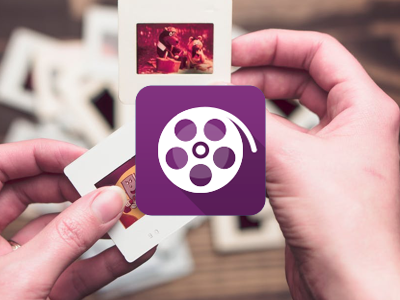
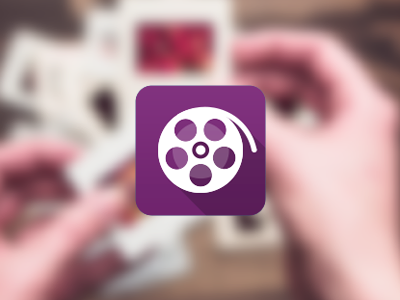
add kika go

diff --git a/index.html b/index.html
@@ -8,7 +8,8 @@
     <meta name="description" content="">
     <meta name="author" content="">
 
-    <title>Ru</title>
+    <title>Wei-Ru Lay</title>
+    <link rel="Shortcut Icon" type="image/x-icon" href="img/title2.ico"/>
 
     <!-- Bootstrap core CSS -->
     <link href="vendor/bootstrap/css/bootstrap.min.css" rel="stylesheet">
@@ -32,7 +33,7 @@
     <nav class="navbar navbar-expand-lg navbar-dark fixed-top" id="mainNav">
       <div class="container">
         <!-- Linda hide the following original code-->
-        <a class="navbar-brand js-scroll-trigger" href="#page-top">Home</a>
+        <a class="navbar-brand js-scroll-trigger" href="#page-top">Wei-Ru Lay</a>
         <button class="navbar-toggler navbar-toggler-right" type="button" data-toggle="collapse" data-target="#navbarResponsive" aria-controls="navbarResponsive" aria-expanded="false" aria-label="Toggle navigation">
           Menu
           <i class="fa fa-bars"></i>
@@ -70,7 +71,7 @@
         <div class="intro-text">
           <!-- Linda hide the following original code-->
           <div class="intro-lead-in">Designing digital product and user experience!</div>
-          <div class="intro-heading text-uppercase">WEI-RU LAY</div>
+          <div class="intro-heading text-uppercase">Wei-Ru Lay</div>
           <!--<a class="btn btn-primary btn-xl text-uppercase js-scroll-trigger" href="#services">Tell Me More</a>-->
         </div>
       </div>
@@ -87,7 +88,10 @@
             <h3 class="section-subheading text-muted">I have six years of experience as a UX designer focusing on mobile applications, from initial ideation to final award-winning product. I have worked in a variety of settings, from large tech companies with over 50 million users to brand-new startups.</h3>
           </div>
         </div>
+
         <div class="row">
+
+
           <div class="col-md-6 col-sm-6 portfolio-item">
             <a class="portfolio-link" data-toggle="modal" href="#portfolioModal1">
               <div class="portfolio-hover">
@@ -117,6 +121,24 @@
               <p class="text-muted">Chatbot Design Case Study</p>
             </div>
           </div>
+
+
+          <div class="col-md-6 col-sm-6 portfolio-item">
+            <a class="portfolio-link" data-toggle="modal" href="#portfolioModal4">
+              <div class="portfolio-hover">
+                <div class="portfolio-hover-content">
+                  <i class="fa fa-lightbulb-o fa-3x"></i>
+                </div>
+              </div>
+              <img class="img-fluid" src="img/portfolio/04-thumbnail.png" alt="">
+            </a>
+            <div class="portfolio-caption">
+              <h4>KikaGo</h4>
+              <p class="text-muted">Powering Hands-Free Communications</p>
+            </div>
+          </div>
+
+
           <div class="col-md-6 col-sm-6 portfolio-item">
             <a class="portfolio-link" data-toggle="modal" href="#portfolioModal3">
               <div class="portfolio-hover">
@@ -131,21 +153,9 @@
               <p class="text-muted">ZenFone Multimedia Apps</p>
             </div>
           </div>
+          
+
           <!--
-          <div class="col-md-6 col-sm-6 portfolio-item">
-            <a class="portfolio-link" data-toggle="modal" href="#portfolioModal4">
-              <div class="portfolio-hover">
-                <div class="portfolio-hover-content">
-                  <i class="fa fa-lightbulb-o fa-3x"></i>
-                </div>
-              </div>
-              <img class="img-fluid" src="img/portfolio/04-thumbnail.png" alt="">
-            </a>
-            <div class="portfolio-caption">
-              <h4>ASUS Music</h4>
-              <p class="text-muted">Zenphone music player</p>
-            </div>
-          </div>
           <div class="col-md-6 col-sm-6 portfolio-item">
             <a class="portfolio-link" data-toggle="modal" href="#portfolioModal5">
               <div class="portfolio-hover">
@@ -267,41 +277,41 @@
         <div class="row">
           <div class="col-lg-12 text-center">
             <h2 class="section-heading text-uppercase">Process</h2>
-            <h3 class="section-subheading text-muted">What I have been working on to deliver a product</h3>
+            <h3 class="section-subheading text-muted">Work processes to deliver a product</h3>
           </div>
         </div>
         <div class="row text-center">
           <div class="col-md-3">
             <span class="fa-stack fa-4x">
               <i class="fa fa-circle fa-stack-2x text-primary"></i>
-              <i class="fa fa-shopping-cart fa-stack-1x fa-inverse"></i>
+              <i class="fa fa-search fa-stack-1x fa-inverse"></i>
             </span>
             <h4 class="service-heading">Research</h4>
-            <p class="text-muted">Brand strategy<br>User stories<br>Competetive products<br>Interview & Survey</p>
+            <p class="text-muted">Brand strategy<br>User stories<br>Competitor’s products<br>Heuristic interviews</p>
+          </div>
+          <div class="col-md-3">
+            <span class="fa-stack fa-4x">
+              <i class="fa fa-circle fa-stack-2x text-primary"></i>
+              <i class="fa fa-pencil fa-stack-1x fa-inverse"></i>
+            </span>
+            <h4 class="service-heading">Design</h4>
+            <p class="text-muted">Defining specifications<br>Sketching<br>Wireframing<br>Prototyping</p>
           </div>
           <div class="col-md-3">
             <span class="fa-stack fa-4x">
               <i class="fa fa-circle fa-stack-2x text-primary"></i>
               <i class="fa fa-laptop fa-stack-1x fa-inverse"></i>
             </span>
-            <h4 class="service-heading">Design</h4>
-            <p class="text-muted">Define specifications<br>Sketching<br>Wireframing<br>Prototyping</p>
+            <h4 class="service-heading">Production</h4>
+              <p class="text-muted">Collaboration with developer<br>User testing<br>Quality assurance<br>Refinement</p>
           </div>
           <div class="col-md-3">
             <span class="fa-stack fa-4x">
               <i class="fa fa-circle fa-stack-2x text-primary"></i>
-              <i class="fa fa-lock fa-stack-1x fa-inverse"></i>
-            </span>
-            <h4 class="service-heading">Produce</h4>
-            <p class="text-muted">Co-work with developer<br>User testing<br>Quality assurance<br>Design refining</p>
-          </div>
-          <div class="col-md-3">
-            <span class="fa-stack fa-4x">
-              <i class="fa fa-circle fa-stack-2x text-primary"></i>
-              <i class="fa fa-shopping-cart fa-stack-1x fa-inverse"></i>
+              <i class="fa fa-bar-chart fa-stack-1x fa-inverse"></i>
             </span>
             <h4 class="service-heading">Analysis</h4>
-            <p class="text-muted">A/B Testing<br>User behavior<br>Traffic Analysis<br>Feedback collecting</p>
+            <p class="text-muted">A/B testing<br>User behavior<br>Traffic analysis<br>Feedback consideration</p>
           </div>
           <!--
           <div class="col-md-3">
@@ -381,7 +391,7 @@
                 </li>
                 -->
                 <li class="list-inline-item">
-                  <a href="" target="blank">
+                  <a href="https://goo.gl/4SvKAW" target="blank">
                     <i class="fa fa-address-card"></i>
                   </a>
                 </li>
@@ -511,7 +521,7 @@
       <div class="container">
         <div class="row">
           <div class="col-md-12">
-            <span class="copyright">Copyright &copy; weirulay.com 2017</span>
+            <span class="copyright">Copyright &copy; Wei-Ru Lay 2018</span>
           </div>
           <!-- Linda hide this part
           <div class="col-md-4">
@@ -599,7 +609,9 @@
                   <img class="img-fluid d-block mx-auto" src="img/portfolio/01_stage4.png" alt="">
                   <!-- <p><a class="portfolio-link" data-toggle="modal" data-dismiss="modal" href="#portfolioModal2">Next Project</a><p>
                   -->
+                  <!--
                   <button class="btn" type="button" onclick="$('#portfolioModal1').one('hidden.bs.modal', function() { $('#portfolioModal2').modal('show'); }).modal('toggle');">Next Project</button>
+                  -->
 
                   <button class="btn btn-primary" data-dismiss="modal" type="button">
                     <i class="fa fa-times"></i>
@@ -666,6 +678,8 @@
                   <div class="embed-responsive embed-responsive-16by9">
                     <iframe src="https://www.youtube.com/embed/rI0r0cLVJpg" frameborder="0" gesture="media" allow="encrypted-media" allowfullscreen></iframe>
                   </div>
+                  <br>
+                  <br>
                   <button class="btn btn-primary" data-dismiss="modal" type="button">
                     <i class="fa fa-times"></i>
                     Close Project</button>
@@ -692,7 +706,7 @@
                 <div class="modal-body">
                   <!-- Project Details Go Here -->
                   <h2>ASUS ZenUI - ZenFone Apps</h2>
-                  <p class="item-intro text-muted">ZenUI is the system user interface designed specifically for ASUS ZenFone. Including various creativity and multimedia apps for ZenFone users to experience consistent and seamless services.</p>
+                  <p class="item-intro text-muted">ZenUI is the user interface designed specifically for ASUS ZenFone. It includes various multimedia apps for ZenFone users to experience a wide range of consistent, seamless services.</p>
                   <ul class="list-inline">
                   <li>Role: Planning | Researching | Wireframing | Prototyping | Testing</li>
                   <li>Type: ZenFone system applications | Android applications</li>
@@ -703,29 +717,29 @@
 
                   <img class="img-fluid d-block mx-auto" src="img/portfolio/03-icons.png" alt="">
                   <h3>Background</h3>
-                  <p>ZenUI is the system user interface designed for ZenFone. Before ZenFone1 was borned, ASUS design center decided to create their own user interface since there was no standard design guideline for android phone back in 2013. I was involved in the this plan and focusing on planning and designing the essential multimedia applicZenFoneations for ZenFone.</p>
+                  <p>ZenUI is the user interface designed for ZenFone. Before the 2014 release of ZenFone1, ASUS design center needed to create their own user interface. At the time, the design guidelines for Android phones were incomplete. I was involved in creating the ZenUI user interface, and focused on planning and designing the essential multimedia application for ZenFone.</p>
 
                   <h3>Challenges</h3>
-                  <p>Timing: Before ZenFone launched, there was only two to three months for building new application from zero to release.
+                  <p>Timing: Our team was under a tight deadline—two to three months—for building the new application from scratch.
                   <br>
                   <br>
-                  Integration: We hoped to support most cloud storage services, home storage services (such as NAS) to make people easily access their multimedia files. Supporting arious streaming technology was also important for multimedia apps. Integrating these features in the user flow and make the users feel non-hessle was the main design goal.
+                  Integration: We wanted to support most cloud-storage services and, home-storage services (such as NAS) so that users could easily access their multimedia files. We also want to support various streaming technologies. Our main design goal was to integrate these features into the user flow and make users feel comfortable.
                   <br>
                   <br>
-                  Communication: Not like designing an independent application, all the interactions of ZenFone apps needs to be consistent. Different app designers will need to cooperate tightly and efficiently to make this happened.</p>
+                  Communication: Unlike third-party applications, all ZenFone app interactions need to be consistent and unified. Designers on ZenFone apps needed to cooperate closely and effectively to achieve our goal.</p>
 
                   <h3>ASUS Music</h3>
-                  <p>ASUS Music allows users to access to music files on cloud resource easily, also provides lyrics and streaming features.</p>
+                  <p>We built the ASUS Music application, which allowed users to easily access music files on cloud resource, also providing song lyrics and streaming features.</p>
                   <p><a href="https://goo.gl/UUvMwL">XXXX Downloads with 4.6 Stars</a></p>
                   <img class="img-fluid d-block mx-auto" src="img/portfolio/03-2-select.png" alt="">
 
                   <h3>ASUS MicroFilm</h3>
-                  <p>To better promote new ZenFone camera, MicroFilm was build for creating photo videos. By selecting different themes and customized background music, user can create a stylish slideshow movie.</p>
+                  <p>To better promote the new ZenFone camera, we were also asked to build the MicroFilm application for creating photo videos. By selecting different themes and customized background music, MicroFilm users could create stylish and immersive slideshow movies.</p>
                   <p><a href="https://goo.gl/UUvMwL">XXXX Downloads with 4.6 Stars</a></p>
                   <img class="img-fluid d-block mx-auto" src="img/portfolio/03-microfilm.png" alt="">
 
                   <h3>ASUS Gallery</h3>
-                  <p>Gallery provides photo viewing and advanced editing to make photo sharing more fun!</p>
+                  <p>We also needed to redesign and update the Gallery application to be consistent with the other new or redesigned ZenFone apps. Our redesigned Gallery provided photo photo viewing and advanced editing to make photo sharing more fun and engaging!</p>
                   <p><a href="https://goo.gl/UUvMwL">XXXX Downloads with 4.6 Stars</a></p>
                   <img class="img-fluid d-block mx-auto" src="img/portfolio/03-gallery.png" alt="">
 
@@ -743,7 +757,7 @@
     </div>
 
     <!-- Modal 4 -->
-    <!--
+    
     <div class="portfolio-modal modal fade" id="portfolioModal4" tabindex="-1" role="dialog" aria-hidden="true">
       <div class="modal-dialog">
         <div class="modal-content">
@@ -756,17 +770,33 @@
             <div class="row">
               <div class="col-lg-10 mx-auto">
                 <div class="modal-body">
-                -->
+                
                   <!-- Project Details Go Here -->
-                  <!--
-                  <h2 class="text-uppercase">ASUS Music</h2>
-                  <p class="item-intro text-muted">A music player that can easily access music from your phone, cloud storage and home server. Spontaneously creating playlist and play queue from the content.  </p>
+                  
+                  <h2>KikaGo</h2>
+                  <p class="item-intro text-muted">In-car voice control solution creates a safer, more convenient and effortless way to communicate on the road.</p>
                   <ul class="list-inline">
-                  <li>Role: Planning | Researching | Wireframing | Prototyping | Testing</li>
-                  <li>Type：Android Application</li>
-                  <li><a href="https://goo.gl/UUvMwL">Try it on Google Play Store
-                  </a></li>
+                  <li>Role: UX designer </li>
+                  <li>Type: Voice User Interface for Automobile</li>
+                  <li>Award: CES 2018 Innovation Award Winner of In-Vehicle Audio/Video, Tech for a Better World, Software and Mobile Apps, and Smart Home</li>
+                  <li><a href="http://kika.ai/">KikaGo Official Home Page </a></li>
+                  <li><a href="http://youtu.be/T7f3z5SF6eE">KikaGo 2018 CES Interview</a></li>
                   </ul>
+                  <div class="embed-responsive embed-responsive-16by9">
+                  <iframe src="https://player.vimeo.com/video/249897026" width="640" height="360" frameborder="0" webkitallowfullscreen mozallowfullscreen allowfullscreen></iframe>
+                  </div>
+
+                  <br>
+                  <br>
+                  <h3>Background</h3>
+                  <p>In the loud environments, such as inside a moving vehicle, a regular phone's microphone is less effective for voice control. Kika developed a noise-cancellation microphone built into a USB-charging cable to solve this problem. With Kika's cutting-edge AI engine, the KikaGo application created a truly hands-free means for communications inside a car environment that is also elegant and simple.</p>
+
+                  <h3>Challenges</h3>
+                  <p>At the time of KikaGo’s development, there were no hands-free, in-car communications on the market. Unlike existing voice-assisted agents like Siri, KikaGo was designed specifically for voice interaction and hands-free communication so that users would be able to interact without seeing or touching the screen. Because of this, the design flow would need to be more abstract and difficult than the conventional user interface, which includes a visual component, and designers would need to spend more time testing the voice interaction, as opposed to the visual interaction design.</p>
+
+                  <img class="img-fluid d-block mx-400" src="img/portfolio/kika_app feature.png" alt="">
+
+
                   <button class="btn btn-primary" data-dismiss="modal" type="button">
                     <i class="fa fa-times"></i>
                     Close Project</button>
@@ -776,7 +806,7 @@
           </div>
         </div>
       </div>
-    </div>-->
+    </div>
 
     <!-- Modal 5 -->
     <!--
@@ -830,22 +860,20 @@
                 <div class="modal-body">
                   <!-- Project Details Go Here -->
                   <h2>Harman Kardon Remote</h2>
-                  <p class="item-intro text-muted">Harman Kardon Remote is a mobile application for controlling Harman Kardon audio products. Main features including "Device Control" , "Music Streaming" and "Music Player".</p>
+                  <p class="item-intro text-muted">Harman Kardon Remote is a mobile application for controlling Harman Kardon audio products. The main features included device control, music streaming, and music player.</p>
                   <ul class="list-inline">
                   <li>Role: UX/ UI Design</li>
                   <li>Type：iOS/Android Application</li>
-                  <li><a href="https://goo.gl/UUvMwL">Try it on Google Play Store
-                  </a></li>
                   </ul>
 
                   <img class="img-fluid d-block mx-auto" src="img/portfolio/06-intro.png" alt="">
 
                   <h3>Background</h3>
-                  <p>Harman Kardon is a home audio system manufacturer. Back in 2012, smartphone had become more popular on the market, supporting remote control and streaming services from mobile phone was a must. Harman Kardon UI/UX design team started to create this application to giving users a more smart way to interact with audio products.</p>
+                  <p>Harman Kardon is a home audio system manufacturer. With the rise of smartphones, mobile-phone support for remote control and streaming services had become a must. In 2012, the Harman Kardon UI/UX design team began developing this application to give users a more simpler, more intuitive, and technologically integrated smarter way to interact with audio products.</p>
                   
                   <h3>Challenges</h3>
-                  <p>High complexity: Designers needed to dive deeply for the technology of all audio products, including researching and defining interactions for more than 10 Harman Kardon products. <br><br>
-                  Integration: Other than remote control, also designed a full function music player integrating into the application. How to integrate all different setup process and make the navigation easy to understand was a challenge. </p>
+                  <p>Because of complex and meticulous nature of the project, detailed knowledge and execution was required. Designers researched and defined interactions for over ten Harmon Kardon products, including the BDS home-audio system and TK, in order to replicate and integrate these functions for mobile-phone remote control.<br><br>
+                  In addition to the remote control, designers also develop a fully functioning music player integrating into the app. Another challenge was how we could implement a wide variety of setup processes while simultaneously improving on making the navigation, making the end result more intuitive, elegant, and easy to understand.</p>
                   
                   <h3>User Flow </h3>
                   <img class="img-fluid d-block mx-auto" src="img/portfolio/06-flow.png" alt="">

diff --git a/css/agency.css b/css/agency.css
@@ -166,7 +166,7 @@ body {
 header.masthead {
   text-align: center;
   color: #FFFFFF;
-  background-image: url("../img/header-bg2.jpg");
+  background-image: url("../img/header-bg3.png");
   background-repeat: no-repeat;
   background-attachment: scroll;
   background-position: center center;
@@ -194,7 +194,7 @@ header.masthead {
 @media (min-width: 768px) {
   header.masthead .intro-text {
     padding-top: 300px;
-    padding-bottom: 200px; }
+    padding-bottom: 150px; }
     header.masthead .intro-text .intro-lead-in {
       font-size: 40px;
       font-style: italic;
